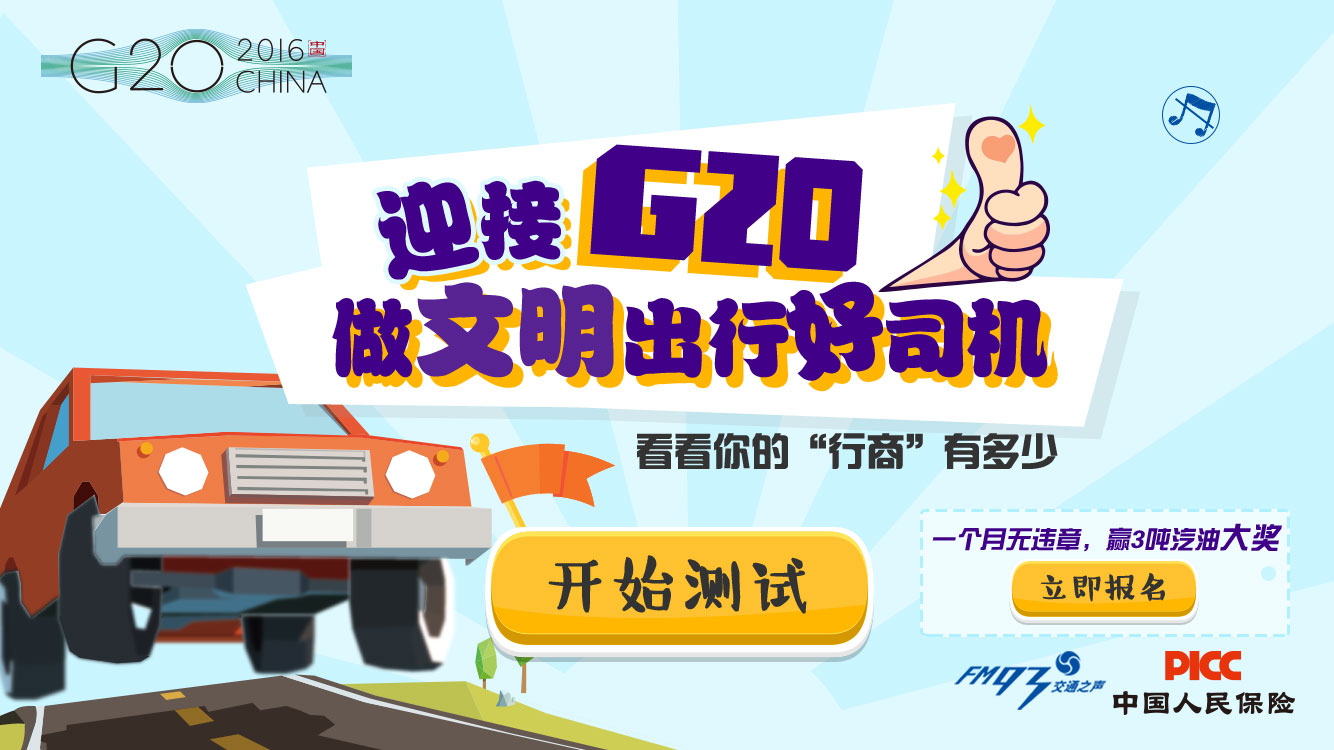
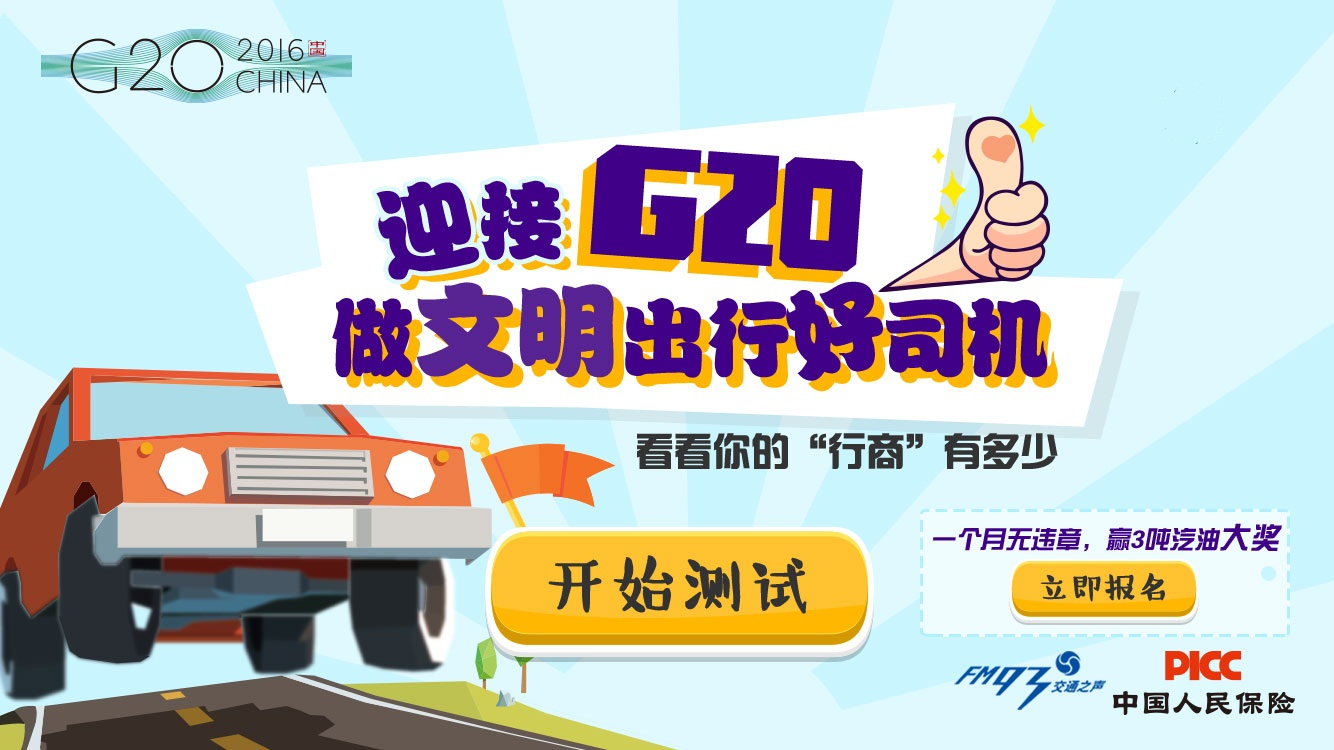
细节调整0616

diff --git a/media/js/carloadingPicc.js b/media/js/carloadingPicc.js
@@ -1,6 +1,7 @@
 $(function(){
     var myVideo=document.getElementById("bgm_music");
     myVideo.play();
+    fenxiang("迎接G20做文明出行好司机，3吨汽油等你来拿","一个月内无违章，三吨汽油送给你","迎接G20做文明出行好司机，3吨汽油等你来拿");
     $("body,html,.fakeloader,.index_bg,.game_start,.agreement,.mod_result,.shareBox,.submitBox,.car_content,.mod_car,.mod_road_bg,.road_two_bg,.mod_roads,.road_left_part,.road_right_part,.road_left_part img,.road_right_part img,.road_run,.road_run img").css({"height":$(window).height()});
     $(".game_introduce ul.images li").css({"width":$(window).width()});
 
@@ -47,7 +48,7 @@ $(function(){
         indexs--;
         if(indexs <=-3){
             indexs = -3;
-            window.location.href="./indexFm93.html?" + new Date().getTime();
+            window.location.href="./indexPicc.html?" + new Date().getTime();
             return;
         }
         $(".liactive").removeClass("liactive");
@@ -59,7 +60,7 @@ $(function(){
         indexs--;
         if(indexs <=-3){
             indexs = -3;
-            window.location.href="./indexFm93.html?" + new Date().getTime();
+            window.location.href="./indexPicc.html?" + new Date().getTime();
             return;
         }
         $(".liactive").removeClass("liactive");
@@ -68,7 +69,7 @@ $(function(){
     });
 
     $(".close_it").on("click",function(){
-        window.location.href="./indexFm93.html?" + new Date().getTime();
+        window.location.href="./indexPicc.html?" + new Date().getTime();
     });
 
     $(".joinUs_button").on("click",function(){

diff --git a/media/js/carWidget.js b/media/js/carWidget.js
@@ -181,7 +181,7 @@ carWidge.prototype.introduce = function(){//操作介绍
     var _self = this;
     _self.loadingSene(".mod_road_one,.mod_one","a_bounceInLeft,a_bounceInRight,a_bounceInDown,a_flipInX","bounceInLeft,bounceInRight,bounceInDown,flipInX","0,0,0,1500","0,0,0,0",function(){
         $(".icon_s").removeClass("dn");
-        showshine("run",500,2500,500);
+        //showshine("run",500,2500,500);
     });//导入第一个场景
     var weChatAudio=document.getElementById("weChatAudio");
     weChatAudio.play();
@@ -589,7 +589,6 @@ carWidge.prototype.loadingPart8 = function() { //接老婆
                 window.clearTimeout(noLeftPartTim2);
                 $(".jt").addClass("dn");
                 _self.stopCar();
-                _self.resultData = _self.resultData-10;
                 _self.offEvent();
                 _self.bindEvent();
                 _self.loadingPart9();

diff --git a/media/js/carWidgetPicc.js b/media/js/carWidgetPicc.js
@@ -181,7 +181,7 @@ carWidge.prototype.introduce = function(){//操作介绍
     var _self = this;
     _self.loadingSene(".mod_road_one,.mod_one","a_bounceInLeft,a_bounceInRight,a_bounceInDown,a_flipInX","bounceInLeft,bounceInRight,bounceInDown,flipInX","0,0,0,1500","0,0,0,0",function(){
         $(".icon_s").removeClass("dn");
-        showshine("run",500,2500,500);
+        //showshine("run",500,2500,500);
     });//导入第一个场景
     var weChatAudio=document.getElementById("weChatAudio");
     weChatAudio.play();
@@ -589,7 +589,6 @@ carWidge.prototype.loadingPart8 = function() { //接老婆
                 window.clearTimeout(noLeftPartTim2);
                 $(".jt").addClass("dn");
                 _self.stopCar();
-                _self.resultData = _self.resultData-10;
                 _self.offEvent();
                 _self.bindEvent();
                 _self.loadingPart9();

diff --git a/media/js/carloadingFm93.js b/media/js/carloadingFm93.js
@@ -1,6 +1,7 @@
 $(function(){
     var myVideo=document.getElementById("bgm_music");
     myVideo.play();
+    fenxiang("迎接G20做文明出行好司机，3吨汽油等你来拿","一个月内无违章，三吨汽油送给你","迎接G20做文明出行好司机，3吨汽油等你来拿");
     $("body,html,.fakeloader,.index_bg,.game_start,.agreement,.mod_result,.shareBox,.submitBox,.car_content,.mod_car,.mod_road_bg,.road_two_bg,.mod_roads,.road_left_part,.road_right_part,.road_left_part img,.road_right_part img,.road_run,.road_run img").css({"height":$(window).height()});
     $(".game_introduce ul.images li").css({"width":$(window).width()});
 

diff --git a/indexPicc.html b/indexPicc.html
@@ -23,7 +23,7 @@
     <div class="wechat_txt"></div>
 </div>
 
-<div class="agreement dn"><a class="icon_agree" href="javascript:;"></a><img class="shareImg" src="./media/images/ewm.jpg" /></div>
+<div class="agreement dn"><a class="icon_agree" href="javascript:;"></a><img class="shareImg" src="./media/images/ewm_picc.jpg" /></div>
 
 
 <div class="car_content ov_z po_r">

diff --git a/media/js/fenxiang.js b/media/js/fenxiang.js
@@ -36,7 +36,7 @@ function fenxiang(a,b,c){
 					}
 					wx.ready(function () {
 						var news_title = a;
-						var news_link = getNewsLink();
+						var news_link = "./loadingFm93.html";
 						var news_image = "http://res.jiconglin.com/images/jt93static/gooddriver/media/images/sharePic.jpg";
 						var news_intro = b;
 						var news_Timeline = c;
